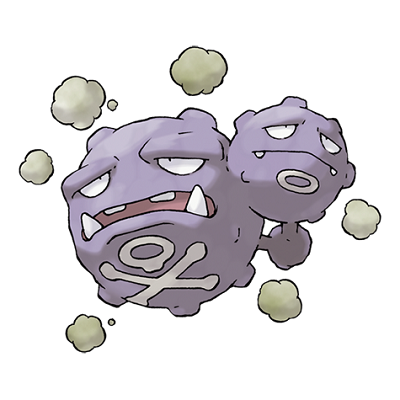
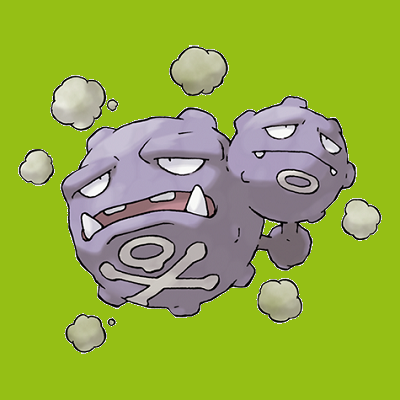
made pretty

diff --git a/index.html b/index.html
@@ -21,11 +21,11 @@
 
 
 <body>
-    <div class="row">
+    <div id="pokemon" class="row text-center">
         <div class="col-sm-4">
             <div class="card figther" style="width: 15rem;">
                 <div id="pikachu-figther" class="card-body">
-                    <img class="card-img-top" src="assets/images/pikachu.png" alt="Card image cap">
+                    <img class="card-img-top" src="assets/images/pikachu2.png" alt="Card image cap">
                     <h5 class="card-title">Pikachu</h5>
                     <p class="card-text">
                         HP:<span id="hp">20</span>
@@ -55,7 +55,7 @@
         <div class="col-sm-4">
             <div class="card figther" style="width: 15rem;">
                 <div id="squirtle-figther" class="card-body">
-                    <img class="card-img-top" src="assets/images/squirtle.jpg" alt="Card image cap">
+                    <img class="card-img-top" src="assets/images/squirtle2.png" alt="Card image cap">
                     <h5 class="card-title">Squirtle</h5>
                     <p class="card-text">
                         HP:<span id="hp">15</span>
@@ -77,7 +77,7 @@
         </div>
     </div>
 
-    <div class="arena-box">
+    <div class="container-fluid text-center">
         <div class="row">
             <div class="col-md-12">
                 <span id="arena">
@@ -87,7 +87,7 @@
         </div>
     </div>
 
-    <div class="row">
+    <div id="pokemon" class="row text-center">
         <div class="col-sm-4">
             <div class="card figther" style="width: 15rem;">
                 <div id="meowth-figther" class="card-body">
@@ -119,7 +119,7 @@
         <div class="col-sm-4">
             <div class="card figther" style="width: 15rem;">
                 <div id="wobbuffet-figther" class="card-body">
-                    <img class="card-img-top" src="assets/images/wobbuffet.jpg" alt="Card image cap">
+                    <img class="card-img-top" src="assets/images/Wobbuffet2.png" alt="Card image cap">
                     <h5 class="card-title">Wobbuffet</h5>
                     <p class="card-text">
                         HP:<span id="hp">35</span>

diff --git a/assets/app.js b/assets/app.js
@@ -1,19 +1,19 @@
 $(document).ready(function () {
 
-    //Maybe some day figure out if these can be combined
+    //I feel like these could probably all have been combined
     $("#pikachu-button").on("click", function () {
         chosenPokemon = pikachu
-        $("#pikachu-figther").appendTo(".arena-box")
+        $("#pikachu-figther").appendTo(".container-fluid")
     });
 
     $("#charmander-button").on("click", function () {
         chosenPokemon = charmander
-        $("#charmander-figther").appendTo(".arena-box")
+        $("#charmander-figther").appendTo(".container-fluid")
     });
 
     $("#squirtle-button").on("click", function () {
         chosenPokemon = squirtle
-        $("#squirtle-figther").appendTo(".arena-box")
+        $("#squirtle-figther").appendTo("..container-fluid")
     });
 
     let chosenEnemy;
@@ -21,17 +21,17 @@ $(document).ready(function () {
 
     $("#meowth-button").on("click", function () {
         chosenEnemy = meowth
-        $("#meowth-figther").appendTo(".arena-box")
+        $("#meowth-figther").appendTo(".container-fluid")
     });
 
     $("#wheezing-button").on("click", function () {
         chosenEnemy = wheezing
-        $("#wheezing-figther").appendTo(".arena-box")
+        $("#wheezing-figther").appendTo(".container-fluid")
     });
 
     $("#wobbuffet-button").on("click", function () {
         chosenEnemy = wobbuffet
-        $("#wobbuffet-figther").appendTo(".arena-box")
+        $("#wobbuffet-figther").appendTo(".container-fluid")
     })
 
 

diff --git a/assets/style.css b/assets/style.css
@@ -1,8 +1,9 @@
 
-.arena-box {
+.container-fluid {
     border: 1px solid black;
     padding: 20px;
     background-image: url(images/background.jpg);
+    
 }
 
 .attack-box {
@@ -11,11 +12,72 @@
 }
 
 .row {
-    width: 60%;
     margin: 0 auto;
-    background-color: pink;
-}
+    }
 
 .img {
     width: 200px;
+}
+
+#pokemon {
+    background-image: url(images/background2.jpg);
+    }
+
+#pikachu-figther {
+    background-color: yellow;
+}
+
+#charmander-figther {
+    background-color: orange;
+}
+
+#squirtle-figther {
+    background-color: lightblue;
+}
+
+#meowth-figther {
+    background-color: #b8b894;
+}
+
+#wheezing-figther {
+    background-color: #c275c0;
+}
+
+#wobbuffet-figther {
+    background-color: #7f0099;
+}
+
+.btn {
+    border: none;
+    font-size: 18px;
+    font-weight: bold;
+    
+}
+#pikachu-button {
+    background-color: rgb(227, 205, 6);
+}
+
+#charmander-button {
+    background-color: #ff6200;
+}
+
+#squirtle-button {
+    background-color: rgb(63, 72, 204);
+}
+
+#meowth-button {
+    background-color: rgb(195, 195, 195);
+}
+
+#wheezing-button {
+    background-color: rgb(149, 191, 21);
+}
+
+#wobbuffet-button {
+    background-color: rgb(138, 62, 138);
+}
+
+#battle-button {
+    background-color: darkred;
+    font-size: 40px;
 }
